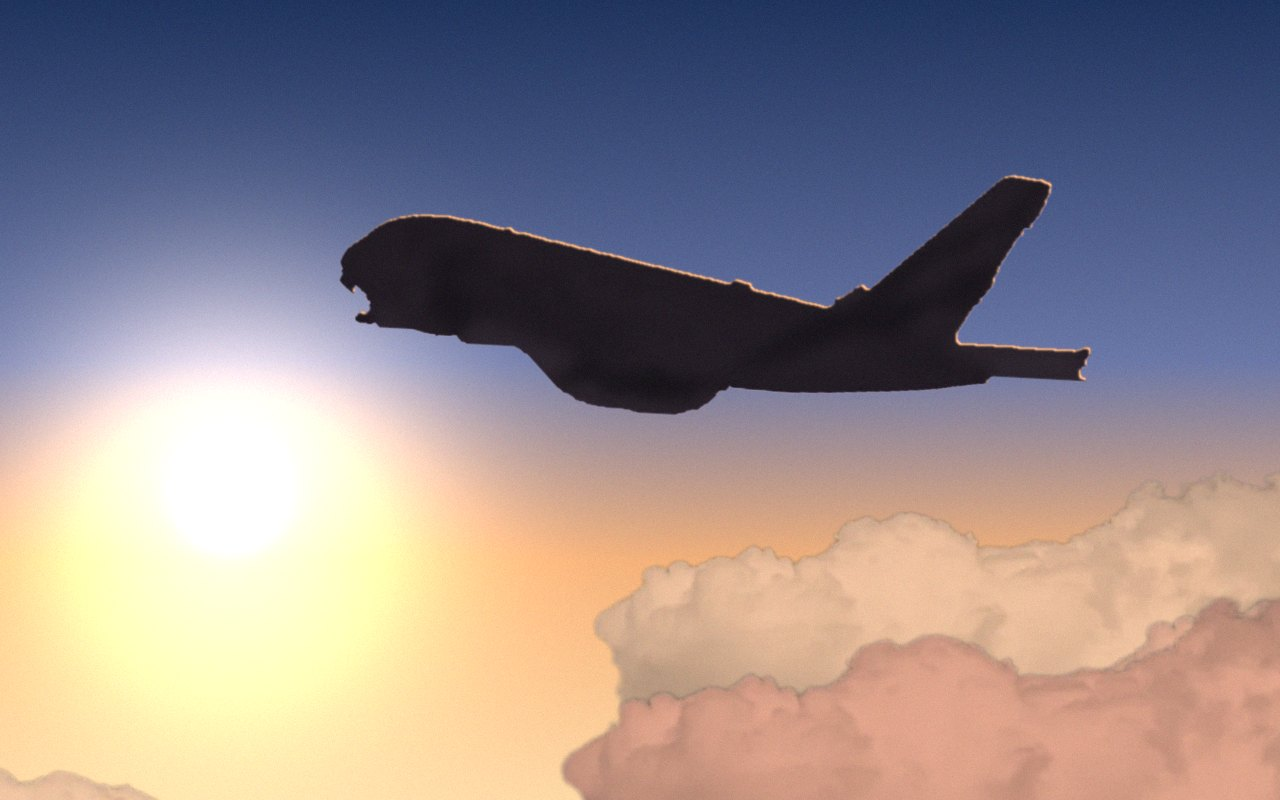
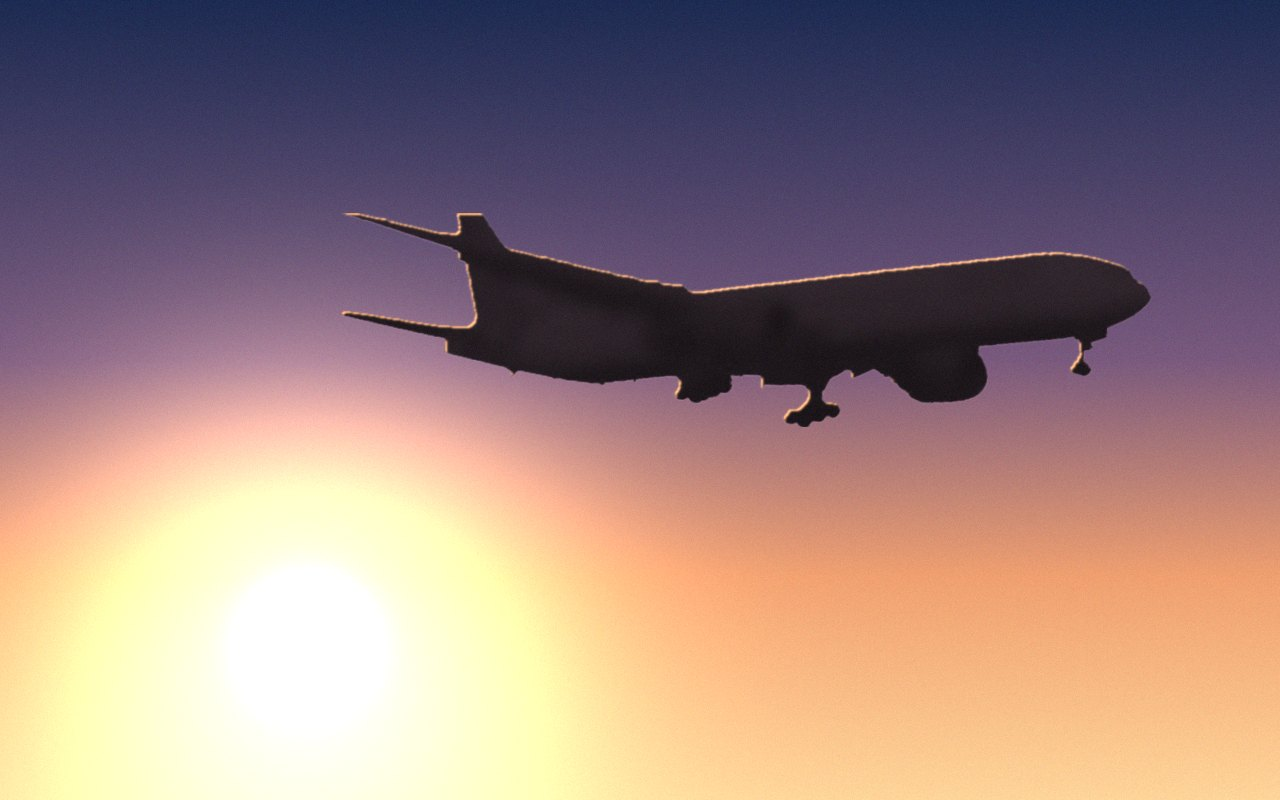
Rename fleet section to The skill fleet and match scenes to groups

diff --git a/frontend/src/pages/Portfolio.tsx b/frontend/src/pages/Portfolio.tsx
@@ -32,7 +32,7 @@ const NAV = [
   ['#departures', 'Departures'],
   ['#logbook', 'Logbook'],
   ['#ratings', 'Ratings'],
-  ['#fleet', 'Fleet'],
+  ['#fleet', 'Skill fleet'],
   ['#atc', 'Contact'],
 ] as const;
 
@@ -257,8 +257,8 @@ function Stamp({ x, i }: { x: Certification; i: number }) {
 type Photo = { src: string };
 // Each aircraft is photographed in a scene that mirrors its skill group.
 const SCENE_NOTE: Record<string, string> = {
-  '777-300ER': 'Sunrise departure · first words in code',
-  'A380-800': 'Cruising above the clouds',
+  'A380-800': 'Sunrise departure · first words in code',
+  '777-300ER': 'Cruising above the clouds',
   'A350-1000': 'Blue hour over a connected city',
   '787-9': 'Night watch under a full moon',
   '747-8': 'Leaving a long data trail',
@@ -380,7 +380,7 @@ export default function Portfolio() {
         <section id="fleet" className="section-pad relative overflow-hidden bg-gradient-to-b from-[#cfe1f5] via-sky-mist to-paper dark:from-ink-deep dark:via-ink dark:to-ink-2" aria-labelledby="fleet-title">
           <div className="relative mx-auto max-w-wrap">
             <p data-reveal className="eyebrow">Section 04</p>
-            <h2 data-reveal id="fleet-title" className="h-section text-ink dark:text-white">The fleet</h2>
+            <h2 data-reveal id="fleet-title" className="h-section text-ink dark:text-white">The skill fleet</h2>
             <p data-reveal className="mb-10 mt-3.5 max-w-[60ch] text-muted dark:text-steel">Every skill group flies as its own aircraft, fuelled and cleared for departure.</p>
             <div className="grid gap-5 sm:grid-cols-2 lg:grid-cols-3">
               {c.skills.map((s, i) => (
